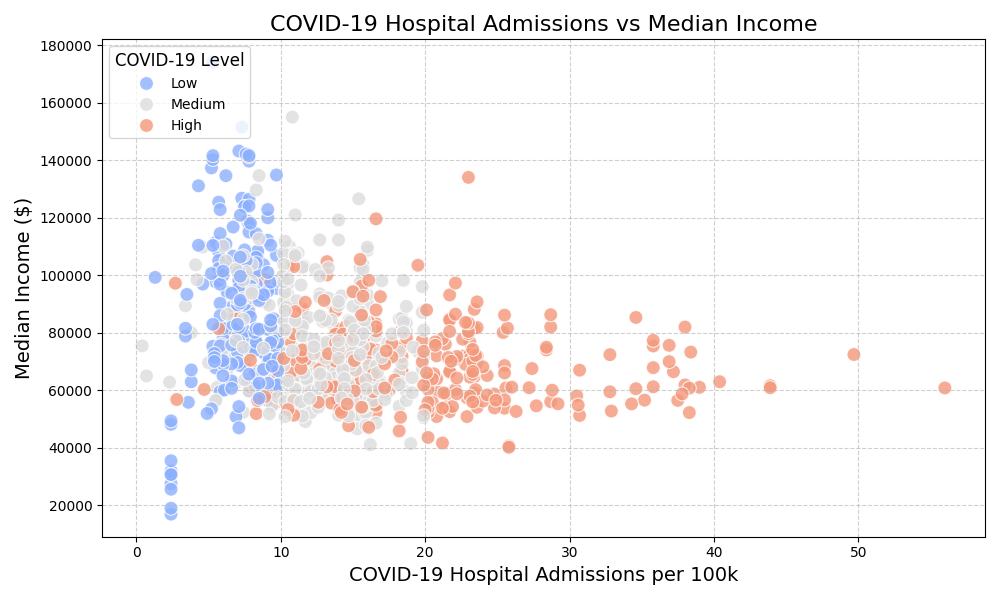
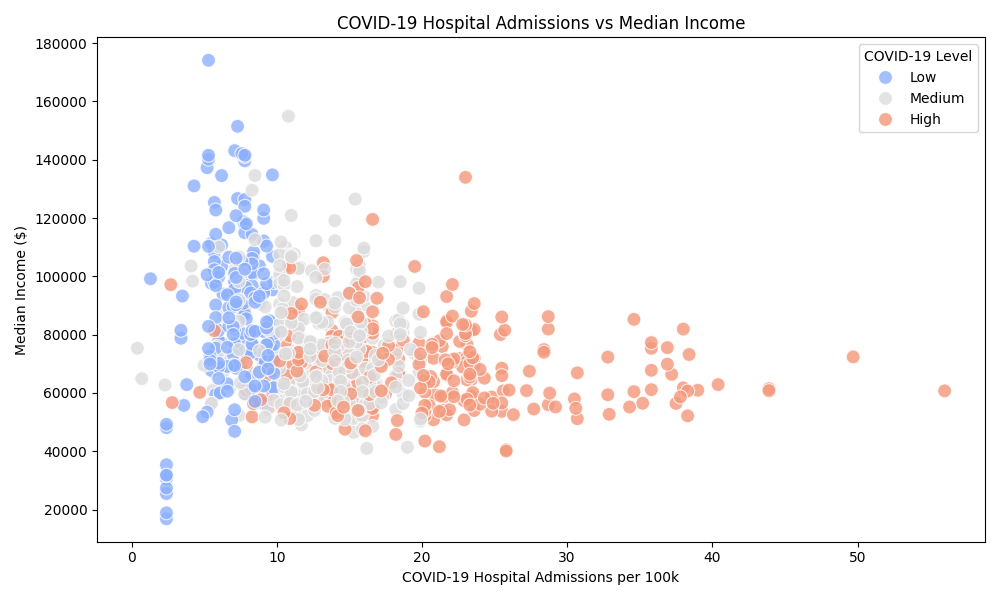
Fix for structure

diff --git a/visualization.py b/visualization.py
@@ -3,49 +3,48 @@ import matplotlib.pyplot as plt
 import seaborn as sns
 import sqlite3
 
-# Load the data from the processing script
-data_file = "calculated_data.txt"
-data = pd.read_csv(data_file)
-
 # Database connection
 conn = sqlite3.connect("housing.db")
 
-# Query the same data for visualization
+# Query the data for visualization
 query = """
 SELECT 
-    h.Two_Bedroom AS average_rent,
-    c.median_income,
-    c.population,
-    e.covid_19_community_level_id
+    two_bedroom AS average_rent,
+    median_income,
+    covid_19_community_level_id,
+    covid_hospital_admissions_per_100k
 FROM 
-    hud_data h
-JOIN 
-    census_data c ON h.fips_code = c.fips_code
-JOIN 
-    er_data e ON h.fips_code = e.county_fips
+    combined_data
 WHERE 
-    h.Two_Bedroom IS NOT NULL AND c.median_income IS NOT NULL AND e.covid_19_community_level_id IS NOT NULL;
+    two_bedroom IS NOT NULL 
+    AND median_income IS NOT NULL 
+    AND covid_19_community_level_id IS NOT NULL;
 """
 
+# Load data into a DataFrame
 data = pd.read_sql_query(query, conn)
 
-# Close the connection
+# Close the database connection
 conn.close()
 
-# Visualization 1: Bar Chart of Average Rent by COVID-19 Level
+# Map COVID-19 level IDs to labels
 level_mapping = {1: "Low", 2: "Medium", 3: "High"}
 data['covid_19_community_level'] = data['covid_19_community_level_id'].map(level_mapping)
+
+# Ensure levels are ordered correctly
 category_order = ["Low", "Medium", "High"]
 data['covid_19_community_level'] = pd.Categorical(
     data['covid_19_community_level'], 
     categories=category_order, 
     ordered=True
 )
+
+# Visualization 1: Bar Chart of Average Rent by COVID-19 Level
 average_rent_by_covid = data.groupby('covid_19_community_level')['average_rent'].mean()
 average_rent_by_covid.plot(kind='bar', color=['green', 'orange', 'red'], figsize=(10, 6))
-plt.title("Average 2 Bedroom Rental Cost by COVID-19 Community Level")
+plt.title("Average 2-Bedroom Rental Cost by COVID-19 Community Level")
 plt.xlabel("COVID-19 Community Level")
-plt.ylabel("2 Bedroom Average Rent")
+plt.ylabel("2-Bedroom Average Rent ($)")
 plt.xticks(rotation=45)
 plt.tight_layout()
 plt.savefig("average_rent_bar_chart.png")
@@ -53,63 +52,23 @@ plt.show()
 
 # Visualization 2: Scatter Plot of Median Income vs Rental Costs
 plt.figure(figsize=(10, 6))
-data['covid_19_community_level'] = data['covid_19_community_level_id'].map(level_mapping)
-category_order = ["Low", "Medium", "High"]
-data['covid_19_community_level'] = pd.Categorical(
-    data['covid_19_community_level'], 
-    categories=category_order, 
-    ordered=True
-)
 sns.scatterplot(
     data=data,
     x='median_income',
     y='average_rent',
     hue='covid_19_community_level',
-    palette='coolwarm'
+    palette='coolwarm',
+    s=100
 )
-plt.title("Median Income vs Average 2 Bedroom Rent")
-plt.xlabel("Median Income")
-plt.ylabel("Average 2 Br Rent")
-plt.legend(title="COVID-19 Level")
+plt.title("Median Income vs Average 2-Bedroom Rent")
+plt.xlabel("Median Income ($)")
+plt.ylabel("2-Bedroom Average Rent ($)")
+plt.legend(title="COVID-19 Level", loc='upper right')
 plt.tight_layout()
 plt.savefig("income_vs_rent_scatter.png")
 plt.show()
 
-conn = sqlite3.connect("housing.db")
-
-query = """
-SELECT 
-    e.covid_hospital_admissions_per_100k,
-    h.Two_Bedroom AS average_rent,
-    e.covid_19_community_level_id
-FROM 
-    er_data e
-JOIN 
-    hud_data h ON e.county_fips = h.fips_code
-WHERE 
-    e.covid_hospital_admissions_per_100k IS NOT NULL AND h.Two_Bedroom IS NOT NULL;
-"""
-
-# Load data into a DataFrame
-data = pd.read_sql_query(query, conn)
-
-
-# Close connection
-conn.close()
-
-# Map numeric COVID-19 level IDs to labels
-level_mapping = {1: "Low", 2: "Medium", 3: "High"}
-data['covid_19_community_level'] = data['covid_19_community_level_id'].map(level_mapping)
-
-# Ensure the levels are ordered as Low, Medium, High
-category_order = ["Low", "Medium", "High"]
-data['covid_19_community_level'] = pd.Categorical(
-    data['covid_19_community_level'], 
-    categories=category_order, 
-    ordered=True
-)
-
-# Create the scatter plot
+# Visualization 3: COVID-19 Hospital Admissions vs Rental Costs
 plt.figure(figsize=(10, 6))
 sns.scatterplot(
     data=data,
@@ -121,54 +80,15 @@ sns.scatterplot(
     s=100,
     alpha=0.8
 )
-
-# Customize the plot
-plt.title("COVID-19 Hospital Admissions vs 2-Bedroom Average Rent", fontsize=16)
-plt.xlabel("COVID-19 Hospital Admissions per 100k", fontsize=14)
-plt.ylabel("2-Bedroom Average Rent ($)", fontsize=14)
-plt.legend(title="COVID-19 Level", fontsize=10, title_fontsize=12, loc='upper left')
-plt.grid(True, linestyle='--', alpha=0.6)
-
-# Save and display the plot
+plt.title("COVID-19 Hospital Admissions vs 2-Bedroom Average Rent")
+plt.xlabel("COVID-19 Hospital Admissions per 100k")
+plt.ylabel("2-Bedroom Average Rent ($)")
+plt.legend(title="COVID-19 Level", loc='upper right')
 plt.tight_layout()
 plt.savefig("hospital_admissions_vs_rent.png")
 plt.show()
 
-conn = sqlite3.connect("housing.db")
-
-query = """
-SELECT 
-    e.covid_hospital_admissions_per_100k,
-    c.median_income,
-    e.covid_19_community_level_id
-FROM 
-    er_data e
-JOIN 
-    census_data c ON e.county_fips = c.fips_code
-WHERE 
-    e.covid_hospital_admissions_per_100k IS NOT NULL AND c.median_income IS NOT NULL;
-"""
-
-# Load data into a DataFrame
-data = pd.read_sql_query(query, conn)
-
-
-# Close connection
-conn.close()
-
-# Map numeric COVID-19 level IDs to labels
-level_mapping = {1: "Low", 2: "Medium", 3: "High"}
-data['covid_19_community_level'] = data['covid_19_community_level_id'].map(level_mapping)
-
-# Ensure the levels are ordered as Low, Medium, High
-category_order = ["Low", "Medium", "High"]
-data['covid_19_community_level'] = pd.Categorical(
-    data['covid_19_community_level'], 
-    categories=category_order, 
-    ordered=True
-)
-
-# Create the scatter plot
+# Visualization 4: COVID-19 Hospital Admissions vs Median Income
 plt.figure(figsize=(10, 6))
 sns.scatterplot(
     data=data,
@@ -180,72 +100,32 @@ sns.scatterplot(
     s=100,
     alpha=0.8
 )
-
-# Customize the plot
-plt.title("COVID-19 Hospital Admissions vs Median Income", fontsize=16)
-plt.xlabel("COVID-19 Hospital Admissions per 100k", fontsize=14)
-plt.ylabel("Median Income ($)", fontsize=14)
-plt.legend(title="COVID-19 Level", fontsize=10, title_fontsize=12, loc='upper left')
-plt.grid(True, linestyle='--', alpha=0.6)
-
-# Save and display the plot
+plt.title("COVID-19 Hospital Admissions vs Median Income")
+plt.xlabel("COVID-19 Hospital Admissions per 100k")
+plt.ylabel("Median Income ($)")
+plt.legend(title="COVID-19 Level", loc='upper right')
 plt.tight_layout()
 plt.savefig("hospital_admissions_vs_income.png")
 plt.show()
 
-
-
-
-# Database connection
-conn = sqlite3.connect("housing.db")
-
-# Query the data
-query = """
-SELECT 
-    h.Two_Bedroom AS average_rent,
-    e.covid_19_community_level_id
-FROM 
-    hud_data h
-JOIN 
-    er_data e ON h.fips_code = e.county_fips
-WHERE 
-    h.Two_Bedroom IS NOT NULL AND e.covid_19_community_level_id IS NOT NULL;
-"""
-
-# Load data into a DataFrame
-data = pd.read_sql_query(query, conn)
-
-
-# Create rental cost ranges
+# Visualization 5: Stacked Bar Chart of Rent Ranges by COVID-19 Level
 bins = [0, 1000, 1500, 2000, 2500, 3000, float('inf')]
 labels = ["< $1000", "$1000-$1500", "$1500-$2000", "$2000-$2500", "$2500-$3000", "> $3000"]
 data['rent_range'] = pd.cut(data['average_rent'], bins=bins, labels=labels, right=False)
-level_mapping = {1: "Low", 2: "Medium", 3: "High"}
-data['covid_19_community_level'] = data['covid_19_community_level_id'].map(level_mapping)
-category_order = ["Low", "Medium", "High"]
-data['covid_19_community_level'] = pd.Categorical(
-    data['covid_19_community_level'], 
-    categories=category_order, 
-    ordered=True
-)
-# Count counties in each range for each COVID-19 level
+
+# Count counties in each rent range for each COVID-19 level
 rent_distribution = data.groupby(['covid_19_community_level', 'rent_range']).size().unstack(fill_value=0)
 
-# Normalize to show proportions
+# Normalize for proportions
 rent_distribution_normalized = rent_distribution.div(rent_distribution.sum(axis=1), axis=0)
 
 # Plot stacked bar chart
 rent_distribution_normalized.plot(kind='bar', stacked=True, figsize=(12, 8), colormap='viridis')
-
-# Customize the plot
-plt.title("Proportion of Counties by Rent Range and COVID-19 Level", fontsize=16)
-plt.xlabel("COVID-19 Community Level", fontsize=14)
-plt.ylabel("Proportion of Counties", fontsize=14)
-plt.xticks(rotation=0, fontsize=12)
-plt.yticks(fontsize=12)
-plt.legend(title="Rent Range", fontsize=10, title_fontsize=12, loc='upper right')
-
-# Save the plot
+plt.title("Proportion of Counties by Rent Range and COVID-19 Level")
+plt.xlabel("COVID-19 Community Level")
+plt.ylabel("Proportion of Counties")
+plt.xticks(rotation=0)
+plt.legend(title="Rent Range", loc='upper right')
 plt.tight_layout()
 plt.savefig("stacked_bar_chart.png")
 plt.show()

diff --git a/data_processing.py b/data_processing.py
@@ -3,23 +3,18 @@ import sqlite3
 # Database connection
 conn = sqlite3.connect("housing.db")
 
-# Query to join the tables and calculate the average rental cost
+# Query to retrieve data from the combined table
 query = """
 SELECT 
-    h.Two_Bedroom AS average_rent,
-    c.median_income,
-    c.population,
-    f.covid_19_community_level
+    two_bedroom AS average_rent,
+    median_income,
+    covid_19_community_level_id
 FROM 
-    hud_data h
-JOIN 
-    census_data c ON h.fips_code = c.fips_code
-JOIN 
-    er_data e ON h.fips_code = e.county_fips
-JOIN
-    covid_community_level f ON e.covid_19_community_level_id = f.id
+    combined_data
 WHERE 
-    h.Two_Bedroom IS NOT NULL AND c.median_income IS NOT NULL AND e.covid_19_community_level_id IS NOT NULL;
+    two_bedroom IS NOT NULL 
+    AND median_income IS NOT NULL 
+    AND covid_19_community_level_id IS NOT NULL;
 """
 
 # Execute the query and fetch all rows
@@ -27,10 +22,14 @@ cursor = conn.cursor()
 cursor.execute(query)
 rows = cursor.fetchall()
 
+# Map COVID-19 community level IDs to their labels
+covid_levels = {1: "Low", 2: "Medium", 3: "High"}
+
 # Organize data into a dictionary for grouping
 rent_by_covid_level = {}
 for row in rows:
-    average_rent, median_income, population, covid_level = row
+    average_rent, median_income, covid_level_id = row
+    covid_level = covid_levels.get(covid_level_id, "Unknown")
     if covid_level not in rent_by_covid_level:
         rent_by_covid_level[covid_level] = {"total_rent": 0, "count": 0}
     rent_by_covid_level[covid_level]["total_rent"] += average_rent
@@ -41,12 +40,18 @@ average_rent_by_covid = {
     covid_level: data["total_rent"] / data["count"]
     for covid_level, data in rent_by_covid_level.items()
 }
+
+# Order the levels explicitly (Low, Medium, High)
+ordered_levels = ["Low", "Medium", "High"]
+
 # Write results to a text file
 output_file = "calculated_data.txt"
 with open(output_file, "w") as f:
     f.write("Average Rental Cost by COVID-19 Community Level:\n")
-    for covid_level, avg_rent in average_rent_by_covid.items():
-        f.write(f"{covid_level}: {avg_rent:.2f}\n")
+    for covid_level in ordered_levels:
+        if covid_level in average_rent_by_covid:
+            avg_rent = average_rent_by_covid[covid_level]
+            f.write(f"{covid_level}: {avg_rent:.2f}\n")
 
 print(f"Calculated data written to {output_file}")
 
